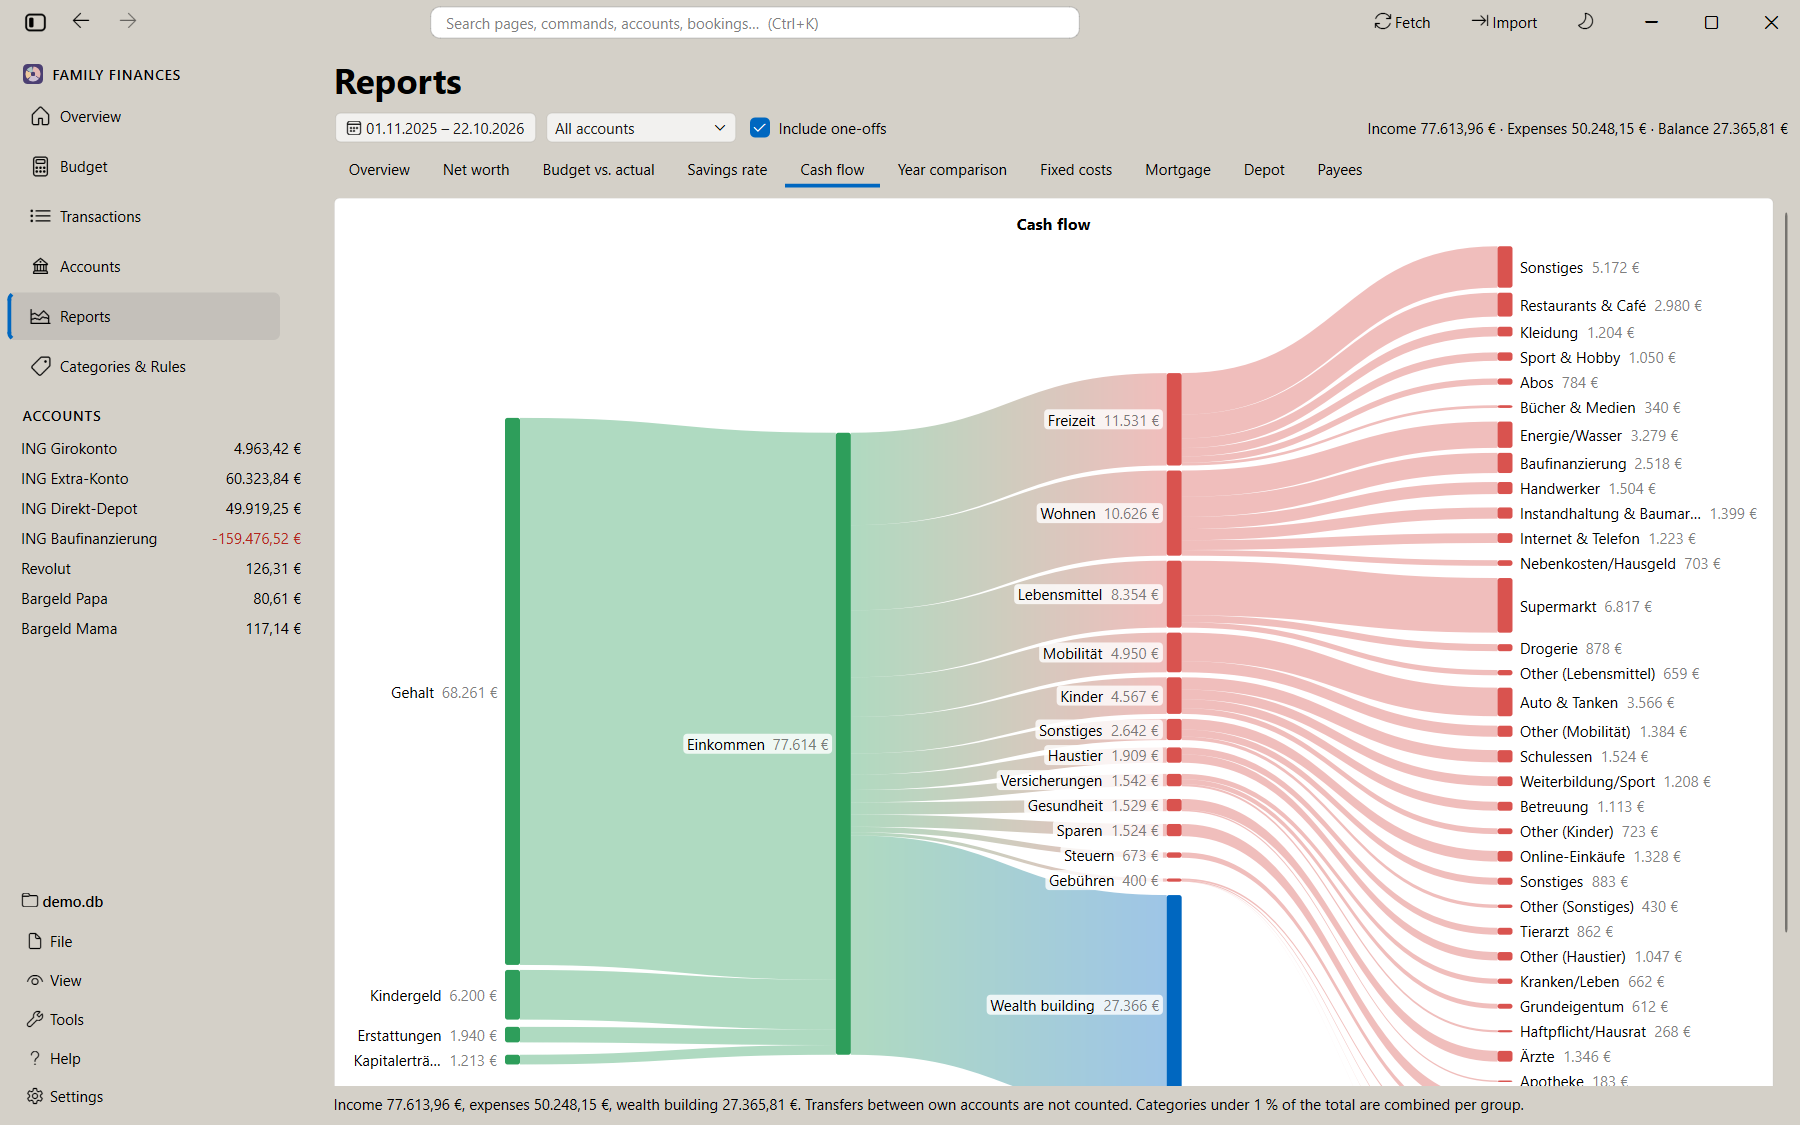
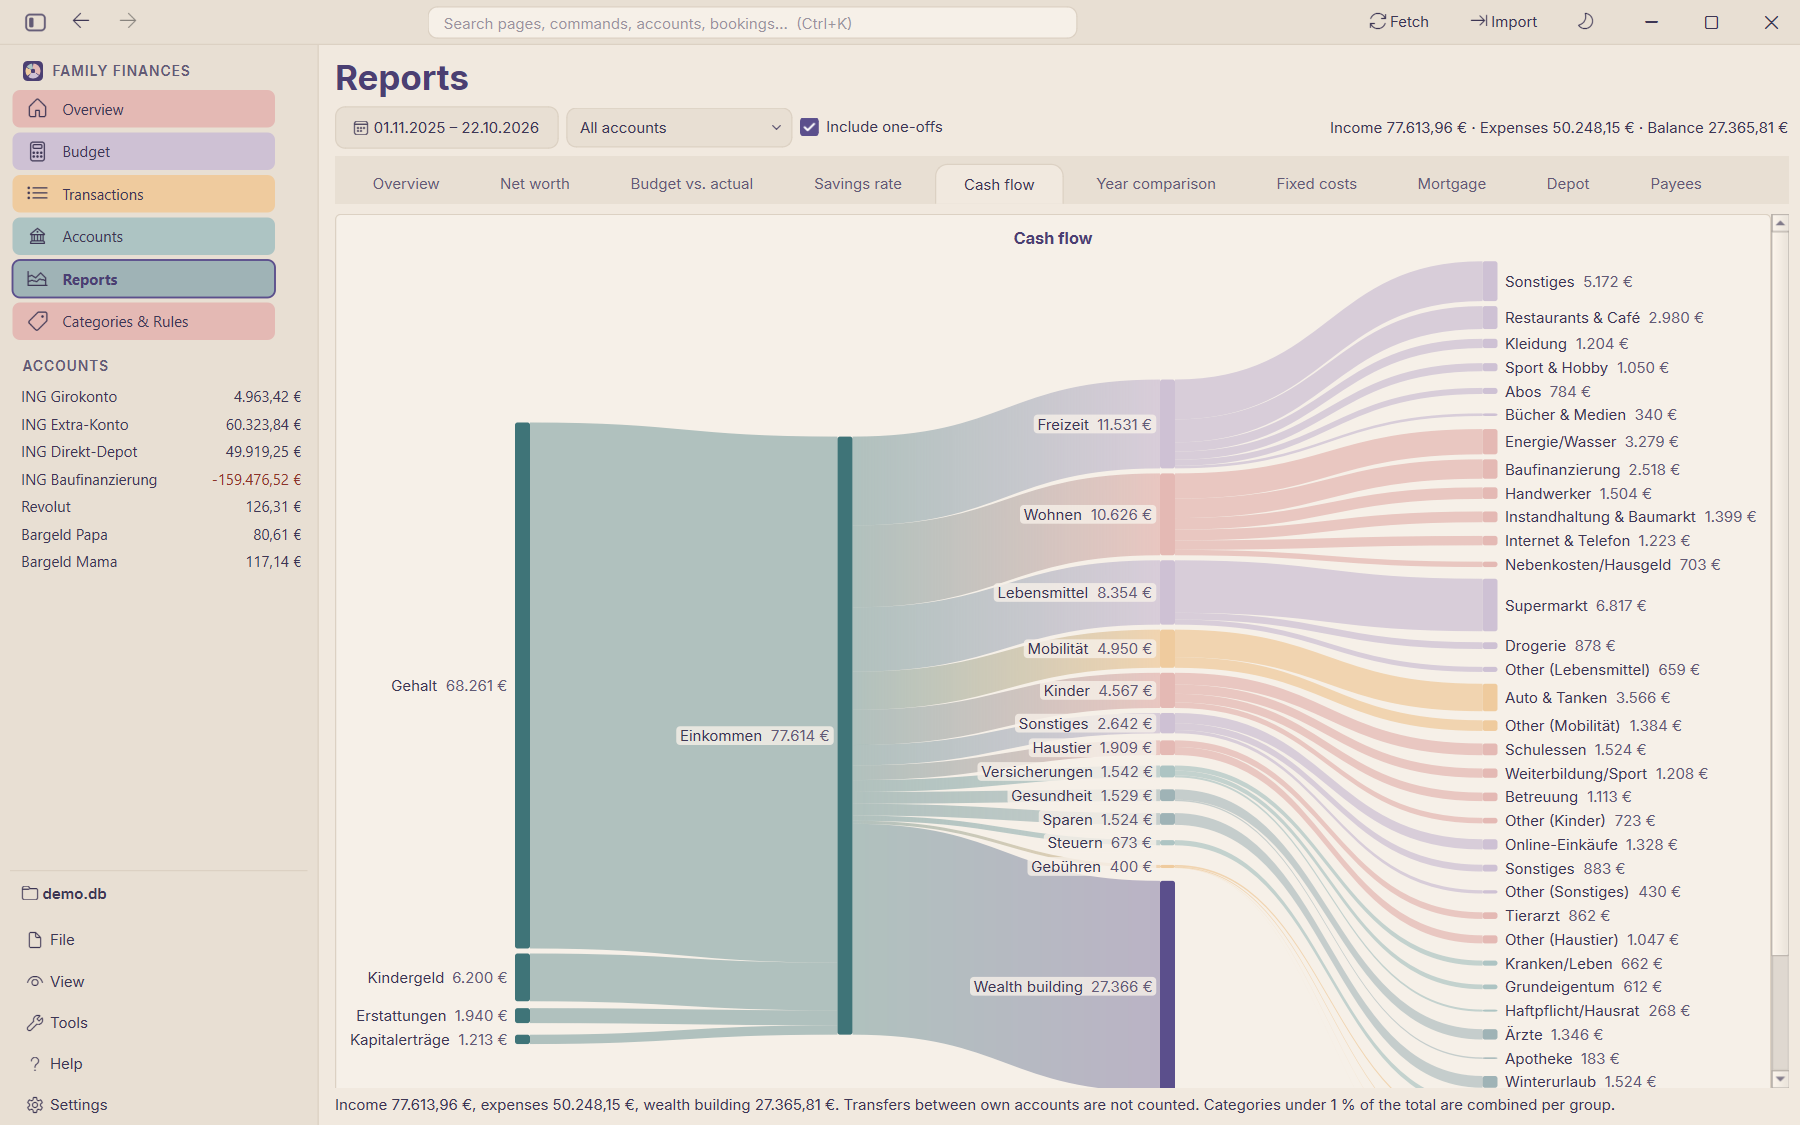
Theme "Obsidian" is now "Rosé Pine"; README screenshots in it

diff --git a/src/hiro_budget/i18n/app_de.ts b/src/hiro_budget/i18n/app_de.ts
@@ -2548,13 +2548,13 @@ Zum Wiederherstellen die App schließen und die Dateien zurückkopieren.</transl
     </message>
     <message>
         <location filename="../gui/main_window.py" line="393" />
-        <source>&amp;Obsidian</source>
-        <translation>&amp;Obsidian</translation>
+        <source>&amp;Rosé Pine</source>
+        <translation>&amp;Rosé Pine</translation>
     </message>
     <message>
         <location filename="../gui/main_window.py" line="394" />
-        <source>Obsidian d&amp;ark</source>
-        <translation>Obsidian d&amp;unkel</translation>
+        <source>Rosé Pine d&amp;ark</source>
+        <translation>Rosé Pine d&amp;unkel</translation>
     </message>
     <message>
         <location filename="../gui/main_window.py" line="403" />

diff --git a/src/hiro_budget/i18n/app_en.ts b/src/hiro_budget/i18n/app_en.ts
@@ -2548,13 +2548,13 @@ To restore, close the app and copy the files back.</translation>
     </message>
     <message>
         <location filename="../gui/main_window.py" line="393" />
-        <source>&amp;Obsidian</source>
-        <translation>&amp;Obsidian</translation>
+        <source>&amp;Rosé Pine</source>
+        <translation>&amp;Rosé Pine</translation>
     </message>
     <message>
         <location filename="../gui/main_window.py" line="394" />
-        <source>Obsidian d&amp;ark</source>
-        <translation>Obsidian d&amp;ark</translation>
+        <source>Rosé Pine d&amp;ark</source>
+        <translation>Rosé Pine d&amp;ark</translation>
     </message>
     <message>
         <location filename="../gui/main_window.py" line="403" />

diff --git a/tests/test_gui.py b/tests/test_gui.py
@@ -233,7 +233,16 @@ def test_switch_light_and_dark_mode(window, config_dir, monkeypatch) -> None:
     assert load_settings(config_dir).app.theme == "system"
 
 
-def test_obsidian_theme_and_back(window, config_dir) -> None:
+@pytest.mark.parametrize(
+    ("saved", "loaded"), [("obsidian", "rose_pine"), ("obsidian_dark", "rose_pine_dark")]
+)
+def test_former_theme_names_still_load(saved, loaded) -> None:
+    from hiro_budget.config import AppConfig
+
+    assert AppConfig(theme=saved).theme == loaded  # "Rosé Pine" was called "Obsidian"
+
+
+def test_rose_pine_theme_and_back(window, config_dir) -> None:
     from PySide6.QtWidgets import QApplication
 
     from hiro_budget.config import load_settings
@@ -242,17 +251,17 @@ def test_obsidian_theme_and_back(window, config_dir) -> None:
     from hiro_budget.gui.navigation import TileDelegate
 
     qapp = QApplication.instance()
-    window.set_theme("obsidian")
+    window.set_theme("rose_pine")
     try:
-        assert load_settings(config_dir).app.theme == "obsidian"
-        assert theme.tokens() is theme.OBSIDIAN
+        assert load_settings(config_dir).app.theme == "rose_pine"
+        assert theme.tokens() is theme.ROSE_PINE
         from PySide6.QtGui import QFontInfo
 
         assert QFontInfo(qapp.font()).family() == "Inter"  # bundled with the app
         assert "{accent}" not in qapp.styleSheet()  # all tokens filled in
-        assert theme.OBSIDIAN["accent"].lower() in qapp.styleSheet().lower()
+        assert theme.ROSE_PINE["accent"].lower() in qapp.styleSheet().lower()
         assert isinstance(window.tabs.list.itemDelegate(), TileDelegate)
-        assert amount_color(-1).name().lower() == theme.OBSIDIAN["neg_text"].lower()
+        assert amount_color(-1).name().lower() == theme.ROSE_PINE["neg_text"].lower()
         window.tabs.setCurrentWidget(window.reports)
         window.tabs.setCurrentWidget(window.budget)  # pages draw with the theme's colours
         window.tabs.list.grab()
@@ -394,19 +403,19 @@ def test_booking_card(window) -> None:
     assert card.rule_button.isHidden() and card.category.isHidden()
 
 
-def test_obsidian_dark(window, config_dir) -> None:
+def test_rose_pine_dark(window, config_dir) -> None:
     from PySide6.QtWidgets import QApplication
 
     from hiro_budget.config import load_settings
     from hiro_budget.gui import theme
     from hiro_budget.gui.common import is_dark
 
-    window.set_theme("obsidian_dark")
+    window.set_theme("rose_pine_dark")
     try:
-        assert load_settings(config_dir).app.theme == "obsidian_dark"
-        assert theme.tokens() is theme.OBSIDIAN_DARK and is_dark()
+        assert load_settings(config_dir).app.theme == "rose_pine_dark"
+        assert theme.tokens() is theme.ROSE_PINE_DARK and is_dark()
         style = QApplication.instance().styleSheet()
-        assert "{" + "disabled}" not in style and theme.OBSIDIAN_DARK["accent"] in style
+        assert "{" + "disabled}" not in style and theme.ROSE_PINE_DARK["accent"] in style
         for page in (window.overview, window.budget, window.transactions, window.reports):
             window.tabs.setCurrentWidget(page)
             page.grab()

diff --git a/src/hiro_budget/gui/theme.py b/src/hiro_budget/gui/theme.py
@@ -4,11 +4,12 @@
   setting, the accent colour follows Windows. The stylesheet only covers group boxes
   (rounded cards with the title above) and tab bars (accent-coloured bar under the
   selected tab); everything else is drawn by the native style.
-- "obsidian": the warm "Obsidian" design (cream ground, aubergine ink, violet accent,
-  pastel page colours) on the Fusion style, which follows a custom palette; buttons,
+- "rose_pine": the warm "Rosé Pine" design (cream ground, aubergine ink, violet accent,
+  pastel page colours; after the Rosé Pine flavour of Obsidian's AnuPpuccin theme, its
+  layout after the Obsidian app) on the Fusion style, which follows a custom palette; buttons,
   fields and tables get rounded shapes from a stylesheet. Views that draw their own
   colours (budget pills, charts, the sidebar) ask ``tokens()``.
-- "obsidian_dark": the same design on dark grounds (its own token set).
+- "rose_pine_dark": the same design on dark grounds (its own token set).
 """
 
 from __future__ import annotations
@@ -34,12 +35,12 @@ SCHEMES = {
     "system": Qt.ColorScheme.Unknown,  # follow Windows
     "light": Qt.ColorScheme.Light,
     "dark": Qt.ColorScheme.Dark,
-    "obsidian": Qt.ColorScheme.Light,
-    "obsidian_dark": Qt.ColorScheme.Dark,
+    "rose_pine": Qt.ColorScheme.Light,
+    "rose_pine_dark": Qt.ColorScheme.Dark,
 }
 
-# The "Obsidian" design (Claude Design canvas "Familien-Finanzanalyse – Obsidian Theme")
-OBSIDIAN = {
+# The "Rosé Pine" design (first drawn as the "Obsidian Theme" canvas)
+ROSE_PINE = {
     "window": "#F1E9DF",  # page ground
     "panel": "#E8DFD3",  # sidebar, buttons, table headers
     "card": "#EDE4D9",
@@ -73,9 +74,9 @@ OBSIDIAN = {
     "pages": ["#E4B9B4", "#CEC1D4", "#EFCB9E", "#ADC4C3", "#9FB3B6"],
 }
 
-# Obsidian at night: the same aubergine character on dark grounds, light ink, a lighter
+# Rosé Pine at night: the same aubergine character on dark grounds, light ink, a lighter
 # violet accent and muted versions of the pastel page colours.
-OBSIDIAN_DARK = {
+ROSE_PINE_DARK = {
     "window": "#1E1B25",
     "panel": "#26222E",
     "card": "#2A2633",
@@ -312,7 +313,7 @@ def active() -> str:
 
 def tokens() -> dict | None:
     """Colours of the custom theme in use, None for the native look."""
-    return {"obsidian": OBSIDIAN, "obsidian_dark": OBSIDIAN_DARK}.get(_active)
+    return {"rose_pine": ROSE_PINE, "rose_pine_dark": ROSE_PINE_DARK}.get(_active)
 
 
 def _palette(t: dict) -> QPalette:
@@ -417,7 +418,7 @@ class _Watcher(QObject):
             obj.setItemDelegate(QStyledItemDelegate(obj))
         elif kind == QEvent.Type.Polish and isinstance(obj, (QSpinBox, QDoubleSpinBox)):
             # the stylesheet's padding does not reach the text of number fields: the
-            # same inset as in the other fields (Obsidian), none in the Windows look
+            # same inset as in the other fields (Rosé Pine), none in the Windows look
             obj.lineEdit().setTextMargins(8 if tokens() else 0, 0, 0, 0)
         return False
 

diff --git a/src/hiro_budget/gui/navigation.py b/src/hiro_budget/gui/navigation.py
@@ -121,7 +121,7 @@ QPushButton#sidebarMenu:hover { background: rgba(128, 128, 128, 0.12); }
 QPushButton#sidebarMenu:pressed { background: rgba(128, 128, 128, 0.20); }
 """
 
-# Obsidian: the list is a panel; TileDelegate draws the pages as pastel tiles
+# Rosé Pine: the list is a panel; TileDelegate draws the pages as pastel tiles
 OBSIDIAN_STYLE = """
 QWidget#sidebar {
     background: {panel};
@@ -153,7 +153,7 @@ QPushButton#sidebarMenu:pressed { background: {border}; }
 
 
 class TileDelegate(QStyledItemDelegate):
-    """Obsidian: each page a rounded tile in its pastel colour, the current one with an
+    """Rosé Pine: each page a rounded tile in its pastel colour, the current one with an
     accent frame and bold label."""
 
     def sizeHint(self, option, index):
@@ -574,7 +574,7 @@ class NavigationView(QWidget):
         self._update_toggle()
 
     def _paint_toggle(self) -> None:
-        """The panel icon in the theme's muted ink (Obsidian) or the button text colour."""
+        """The panel icon in the theme's muted ink (Rosé Pine) or the button text colour."""
         t = theme.tokens()
         color = t["muted"] if t else self.toggle.palette().buttonText().color()
         self.toggle.setIcon(sidebar_icon(color))

diff --git a/src/hiro_budget/gui/main_window.py b/src/hiro_budget/gui/main_window.py
@@ -390,8 +390,8 @@ class MainWindow(QMainWindow):
             ("system", self.tr("As in &Windows")),
             ("light", self.tr("&Light")),
             ("dark", self.tr("&Dark")),
-            ("obsidian", self.tr("&Obsidian")),
-            ("obsidian_dark", self.tr("Obsidian d&ark")),
+            ("rose_pine", self.tr("&Rosé Pine")),
+            ("rose_pine_dark", self.tr("Rosé Pine d&ark")),
         ):
             act = QAction(label, self, checkable=True)
             act.setChecked(self.app.settings.app.theme == code)
@@ -687,10 +687,10 @@ class MainWindow(QMainWindow):
         return self.palette().window().color().lightness() < 128
 
     def toggle_theme(self) -> None:
-        """Light <-> dark, keeping the design (Obsidian or Windows)."""
+        """Light <-> dark, keeping the design (Rosé Pine or Windows)."""
         pairs = {
-            "obsidian": "obsidian_dark",
-            "obsidian_dark": "obsidian",
+            "rose_pine": "rose_pine_dark",
+            "rose_pine_dark": "rose_pine",
             "light": "dark",
             "dark": "light",
         }

diff --git a/src/hiro_budget/config.py b/src/hiro_budget/config.py
@@ -173,7 +173,7 @@ class PluginsConfig(BaseModel):
 class AppConfig(BaseModel):
     database: DatabaseConfig = DatabaseConfig()
     language: Literal["de", "en"] = "de"
-    theme: Literal["system", "light", "dark", "obsidian", "obsidian_dark"] = "system"  # look
+    theme: Literal["system", "light", "dark", "rose_pine", "rose_pine_dark"] = "system"  # look
     logging: LoggingConfig = LoggingConfig()
     # where new statements are saved; PDFs in it not imported yet are offered for import
     import_folder: str = "input"
@@ -185,6 +185,12 @@ class AppConfig(BaseModel):
     backup: BackupConfig = BackupConfig()
     fints: FintsConfig = FintsConfig()
     plugins: PluginsConfig = PluginsConfig()
+
+    @field_validator("theme", mode="before")
+    @classmethod
+    def _former_theme_names(cls, value: Any) -> Any:
+        # "Rosé Pine" was called "Obsidian" up to 0.1.0
+        return {"obsidian": "rose_pine", "obsidian_dark": "rose_pine_dark"}.get(value, value)
 
     @model_validator(mode="after")
     def _unique_account_names(self) -> AppConfig:

diff --git a/src/hiro_budget/gui/budget_view.py b/src/hiro_budget/gui/budget_view.py
@@ -67,7 +67,7 @@ CAT_ROLE = Qt.ItemDataRole.UserRole + 1  # category id (category rows)
 ENV_ROLE = Qt.ItemDataRole.UserRole + 2  # Envelope of rows that hold money
 GROUP_ROLE = Qt.ItemDataRole.UserRole + 3  # group key (group rows)
 STATE_ROLE = Qt.ItemDataRole.UserRole + 4  # colour key of the Available column
-CHIP_ROLE = Qt.ItemDataRole.UserRole + 5  # chip colour behind a group name (Obsidian)
+CHIP_ROLE = Qt.ItemDataRole.UserRole + 5  # chip colour behind a group name (Rosé Pine)
 
 ALL, OVERSPENT, UNDERFUNDED = "all", "overspent", "underfunded"
 
@@ -119,7 +119,7 @@ class AssignedDelegate(QStyledItemDelegate):
         self.view = view
 
     def paint(self, painter, option, index):
-        """Obsidian: the Available amount as a rounded pill, group names on a chip."""
+        """Rosé Pine: the Available amount as a rounded pill, group names on a chip."""
         t = theme.tokens()
         state = index.data(STATE_ROLE)
         chip = index.data(CHIP_ROLE)

diff --git a/tests/test_title_bar.py b/tests/test_title_bar.py
@@ -127,13 +127,13 @@ def test_import_button_offers_the_new_statements(window, statement_pdf, monkeypa
 
 def test_theme_button_switches_light_and_dark(window) -> None:
     try:
-        window.set_theme("obsidian")
+        window.set_theme("rose_pine")
         window.theme_button.click()
-        assert window.app.settings.app.theme == "obsidian_dark"
-        assert window._theme_actions["obsidian_dark"].isChecked()
+        assert window.app.settings.app.theme == "rose_pine_dark"
+        assert window._theme_actions["rose_pine_dark"].isChecked()
         assert "light" in window.theme_button.toolTip()
         window.theme_button.click()
-        assert window.app.settings.app.theme == "obsidian"
+        assert window.app.settings.app.theme == "rose_pine"
     finally:
         window.set_theme("light")
     assert theme.tokens() is None

diff --git a/tests/test_cash_flow.py b/tests/test_cash_flow.py
@@ -185,7 +185,7 @@ def test_expense_groups_in_the_budget_colours(qtbot, flow_app, monkeypatch) -> N
     from hiro_budget.gui.budget_view import CHIP_ROLE, GROUP_ROLE, BudgetView
     from hiro_budget.gui.report_pages import CashFlowReport
 
-    monkeypatch.setattr(theme, "_active", "obsidian")  # the theme with group colours
+    monkeypatch.setattr(theme, "_active", "rose_pine")  # the theme with group colours
     page = CashFlowReport(flow_app)
     qtbot.addWidget(page)
     page.refresh(*APRIL, None)

diff --git a/src/hiro_budget/gui/transactions_view.py b/src/hiro_budget/gui/transactions_view.py
@@ -83,7 +83,7 @@ class CategoryDelegate(QStyledItemDelegate):
         self.view = view
 
     def paint(self, painter, option, index):
-        """Obsidian: an uncategorized booking shows a dashed "+ Category" pill."""
+        """Rosé Pine: an uncategorized booking shows a dashed "+ Category" pill."""
         t = theme.tokens()
         r: TransactionRow | None = index.data(ROW_ROLE)
         if t is None or r is None or not r.is_uncategorized:

diff --git a/src/hiro_budget/gui/accounts_view.py b/src/hiro_budget/gui/accounts_view.py
@@ -167,7 +167,7 @@ class AccountDraft:
 
 
 class TypeChipDelegate(QStyledItemDelegate):
-    """Obsidian: the type of an account as a chip (positions keep their ISIN as text)."""
+    """Rosé Pine: the type of an account as a chip (positions keep their ISIN as text)."""
 
     def paint(self, painter, option, index):
         t = theme.tokens()
